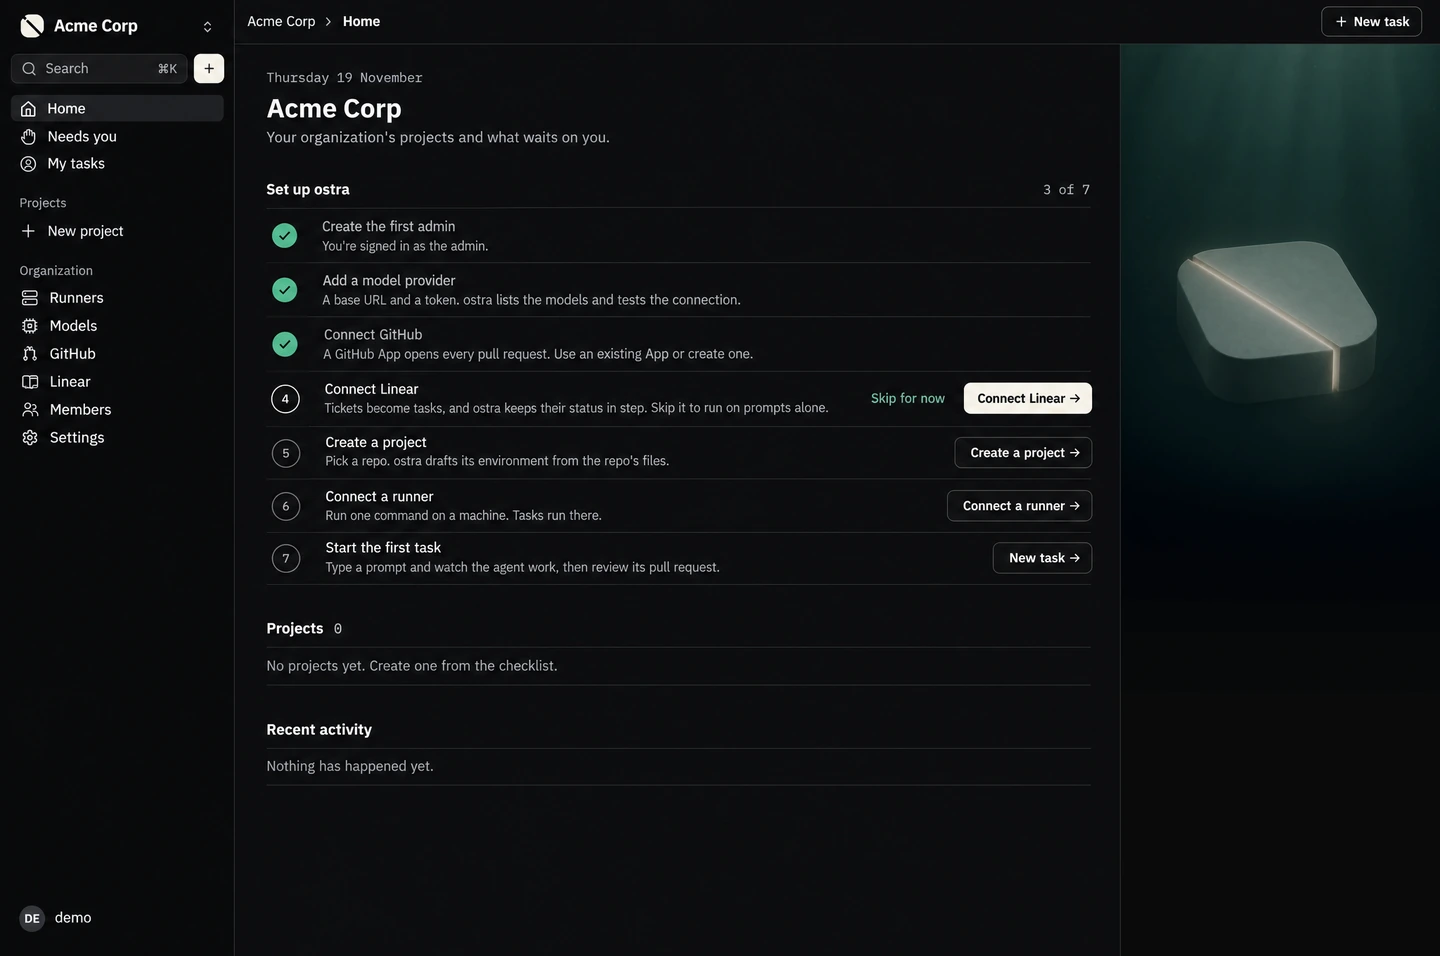
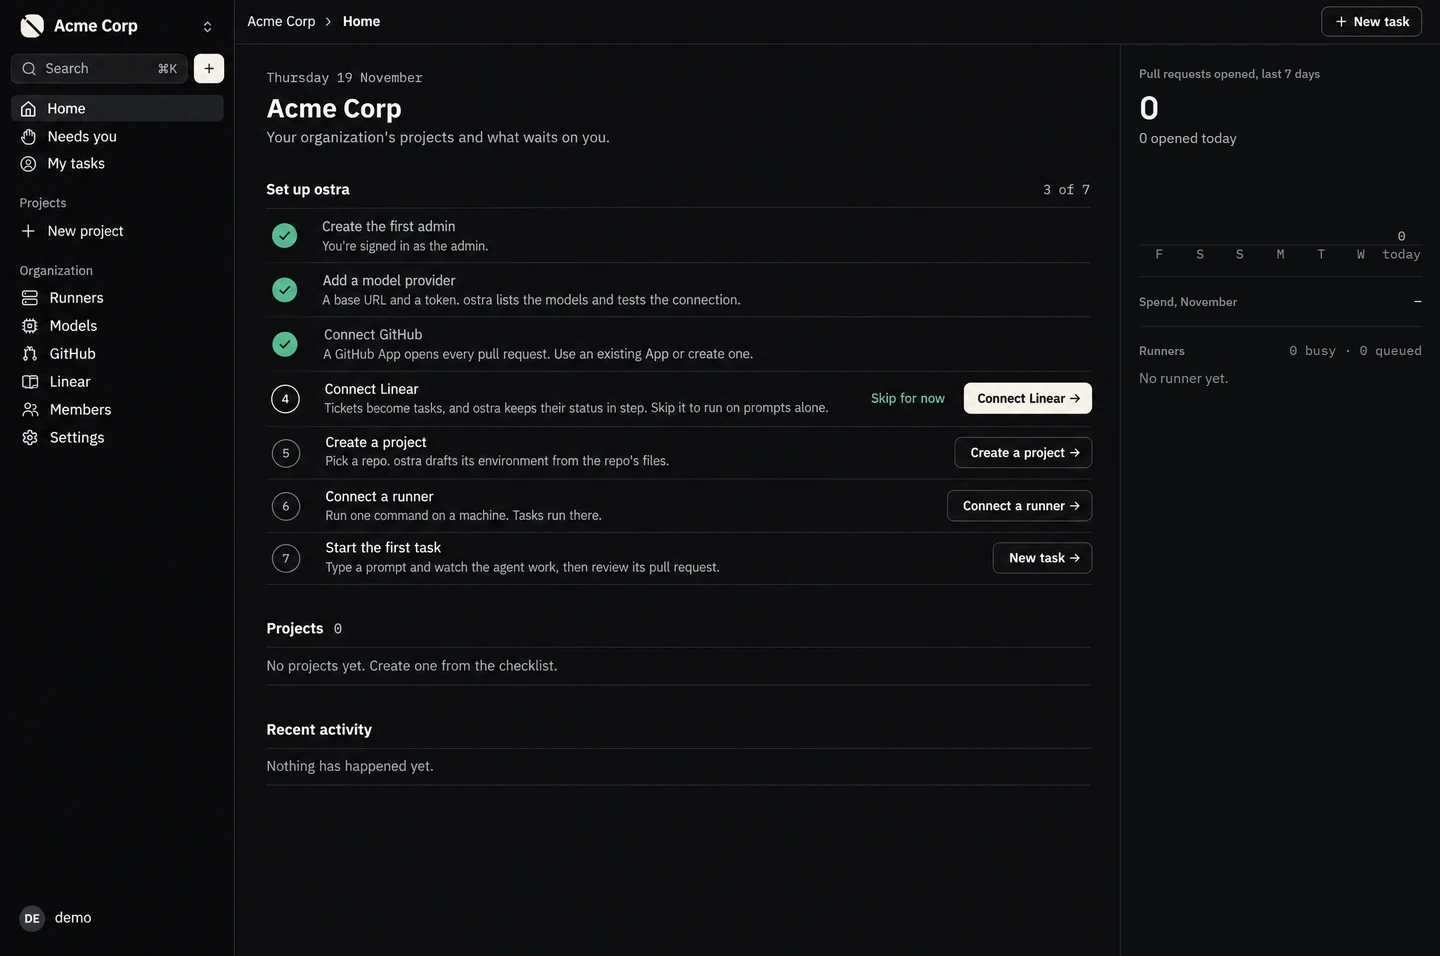
🎨 show Home's panel in the first-run targets
The maintainer, 2026-11-20: "on home this image on the right is ugly". The app dropped the Deep water column (a346d915); home-first-run and org-switcher-switched now show Home's right panel with its empty values, rendered from HomePanel's markup, tokens and fonts and composited in. Notes for the regraded m2 and m4 targets go in their READMEs.

Changed region(s): [[0.7812, 0.0303, 1.0, 0.4247]]

diff --git a/context/brand/app-targets/m2/home-first-run.md b/context/brand/app-targets/m2/home-first-run.md
@@ -4,7 +4,7 @@
 
 Home's first-run checklist (F-076) with the Linear step live (F-005), no longer "milestone 2" (screen 2 of `../../../specs/m2-tickets-in/spec.md` section 12). Everything else on Home is milestone 1's target, `../m1/home.md`: this file changes only its "First run" section and the right panel while the checklist shows.
 
-Prompt: `home-first-run.prompt.txt`. Made with the `ui-taste` skill, image first, on Higgsfield `gpt_image_2_6` (3:2, 2k, high), from the approved milestone 1 Home target (`../m1/home.png`, its 2048 original), the graphite Home concept (`../../app-concepts/html/home-graphite.png`) and the Hinge logo. One generation, with the right column asked for empty. The right column was then composited with the brand's "Deep water" illustration (`../../files/web/sign-in-illustration.webp`, B-017 in `../../assets.md`), scaled and darkened as "The illustration" below says. It's the maintainer's chosen illustration, not a dimmed mock of product UI.
+Prompt: `home-first-run.prompt.txt`. Made with the `ui-taste` skill, image first, on Higgsfield `gpt_image_2_6` (3:2, 2k, high), from the approved milestone 1 Home target (`../m1/home.png`, its 2048 original), the graphite Home concept (`../../app-concepts/html/home-graphite.png`) and the Hinge logo. One generation, with the right column asked for empty. The right column first held the brand's "Deep water" illustration; since 2026-11-20 it's Home's own right panel, empty, rendered from the panel's markup, tokens and fonts in Chromium and composited in ("The right panel" below).
 
 **Status:** a target, not yet approved by the maintainer (ticket 32). The picture is an image-model render: the copy and rules in this file win over the pixels, and the tokens below win over its colours.
 
@@ -23,9 +23,9 @@ Route: `/` (`app/(panel)/page.tsx` → `components/home/home-view.tsx`). The che
 | Sidebar | 232px, `--side`, right hairline | The shared sidebar; **Home** selected. A new organization has no projects, so Projects holds only `New project` |
 | Top bar | 44px, bottom hairline | Breadcrumbs `Acme Corp › Home`. Right: `+ New task` as an **outline** button (`.btn`) while the checklist shows; it becomes the primary once setup is done (`../m1/home.md`) |
 | Page | `1fr`, padding `28px 40px` | Heading, then **Set up ostra**, **Projects**, **Recent activity**, 26px apart |
-| Right column | 320px, left hairline, `--side` | Decorative: the brand illustration. No text, no data |
+| Right column | 320px, left hairline, `--bg` | Home's normal right panel (`../m1/home.md`): pull requests opened, spend, runners, with their empty values (since 2026-11-20; it was the Deep water picture) |
 
-At `< xl` the right column is hidden (the properties panel would stack under the page there, and a picture under a checklist says nothing). At phone width (F-075) a step's action wraps under its body, left-aligned with the title, and `Skip for now` sits after the button.
+At `< xl` the right panel stacks under the page, as on Home after setup. At phone width (F-075) a step's action wraps under its body, left-aligned with the title, and `Skip for now` sits after the button.
 
 ### Heading
 - Eyebrow, `.key` (Plex Mono 12px, `--faint`): `Thursday 19 November` (the member's locale date, `en-GB`).
@@ -74,17 +74,20 @@ The picture shows steps 1 to 3 done and Linear next.
 - **Recent activity**: one `--muted` row, `Nothing has happened yet.` (`home.activity.empty`, a key `../m1/home.md` adds; the section isn't built yet).
 - The **Needs you** section of `../m1/home.md` isn't shown while the checklist is: the checklist takes its place.
 
-### The illustration (decorative)
+### The right panel (no illustration since 2026-11-20)
 
-The right column replaces milestone 1's "the right panel is empty (not rendered)" during first run.
-- **The file:** the sign-in illustration, `../../files/web/sign-in-illustration-1200.webp` (B-017), served as `/sign-in-illustration-1200.webp`: `sign-in.md` copies it to `apps/web/public/`; whichever screen is built first copies it. No new asset.
-- **The column:** `PageFrame`'s `properties` slot, 320px, `position: relative; overflow: hidden; background: var(--side)`, `aria-hidden`, nothing focusable.
-- **The image:** `background: url(/sign-in-illustration-1200.webp) 50% 0 / 162.5% auto no-repeat` on a child layer with `opacity: 0.85`, over `--side`. That shows the stone whole, about 200px wide, centred, its middle about 275px below the top bar, with the light from above, and fades into `--side` at about 650px down (the asset's own bottom fade). The opacity keeps the stone dimmer than the primary button, so `Connect Linear →` stays the brightest thing on the page.
-- **No text** in the column, and no other image: Home already says what ostra is.
-- Hidden at `< xl` (`hidden xl:block`), so it costs a narrow screen nothing (a CSS background on a hidden element isn't fetched).
+**Changed 2026-11-20.** The maintainer, of the Deep water picture this column used to hold: "on home this image on the right is ugly". The app dropped it the same day (`a346d915`), and this target followed.
+
+During first run the right column is **Home's normal right panel**, `HomePanel` (`../m1/home.md`, "The right panel"), with the empty values a new organization has. Nothing in it is first-run-specific:
+- **Pull requests opened, last 7 days:** `0`, `0 opened today`, and the chart with no bars: the day letters, a `0` over `today`, and the `--line` baseline.
+- **Spend, November:** `–` (no priced usage yet).
+- **Runners:** `0 busy · 0 queued`, then `No runner yet.` in `--faint`.
+- The picture's panel was rendered from that markup with the panel's tokens and fonts, not drawn by the image model.
+
+The panel is `PageFrame`'s `properties` aside, as on every Home, and stacks under the page below `xl`. The next step's button stays the page's one primary: the panel holds no button.
 
 ### Loading and errors
-- **Loading:** the heading at once; the checklist shows 4 `Skeleton` rows (52px, `--surface` bars, no shimmer) until `setup.status` answers. The right column renders at once (it needs no data).
+- **Loading:** the heading at once; the checklist shows 4 `Skeleton` rows (52px, `--surface` bars, no shimmer) until `setup.status` answers. The right panel's numbers show `–` until `home.overview` answers.
 - **Error:** the checklist keeps its header and shows one row: `Couldn't load this. Retry`, with `Retry` as a teal link. The other sections still render.
 
 ## Components (shadcn/ui names)
@@ -97,7 +100,7 @@ The right column replaces milestone 1's "the right panel is empty (not rendered)
 | Skip for now, Connect Linear (skipped) | `Button variant="link"` in `--teal` |
 | Top bar New task | `Button variant="outline"` while the checklist shows |
 | Loading | `Skeleton` |
-| Illustration | a plain `div` with the CSS background above (no `next/image`: it's decorative and CSS-sized) |
+| Right panel | `HomePanel` (`components/home/home-panel.tsx`), unchanged |
 
 ## Tokens (from `../../app-concepts/html/graphite.css`)
 
@@ -124,7 +127,7 @@ The right column replaces milestone 1's "the right panel is empty (not rendered)
 3. **Progress** counts done and skipped steps: `3 of 7` in the picture.
 4. **Actions:** today every open step gets a button and the next gets the Shell fill. Unchanged, plus `Skip for now` on the Linear step and its five states above.
 5. **Top bar:** `New task` is always the Shell primary today (`buttonVariants()`); while the checklist shows it's the outline variant, so the next step's button is the page's one primary (`../m1/home.md` says so already; the code doesn't do it).
-6. **The right column** is new while the checklist shows: today `HomeView` passes no `properties`. Pass the decorative column only while `setup.status.next !== null`.
+6. **The right column** is Home's `HomePanel` while the checklist shows too (2026-11-20, `a346d915`): `HomeView` passes it whenever `setup.status` has answered. The decorative Deep water column it replaced is gone.
 7. **Sidebar:** a `Linear` row (Lucide `ticket`) after GitHub, as `connect-linear.md` says.
 8. **Messages:** `checklist.linear.body` changes to the copy above; new keys `checklist.linear.action` (`Connect Linear`), `checklist.linear.skip` (`Skip for now`), `checklist.linear.skipping` (`Skipping…`), `checklist.linear.skipped` (`Skipped. Tasks start from prompts until you connect it.`), `checklist.linear.pending`, `checklist.linear.continue` (`Continue`), `checklist.linear.failed`, `checklist.linear.authorizeAgain` (`Authorize again`); `checklist.linear.later` is removed.
 
@@ -136,6 +139,6 @@ The build uses the copy in this file, not the pixels.
 2. **The sidebar** shows `Needs you`, `My tasks`, `Members` and `Settings`, which milestone 1's shared shell doesn't have yet. Build the sidebar from `components/shell/sidebar.tsx`, plus the Linear row. The user at the bottom is the default first admin, `demo`, as a fresh install has.
 3. **The `Projects` count** is drawn as `0` in a slashed-zero mono: a faint mono `0` is right, its glyph comes from IBM Plex Mono.
 4. **The step titles** of done steps are drawn in nearly the same white as open ones: they're `--muted`.
-5. **The right column** is drawn 320px wide, wider than milestone 1's 300px properties panel. 320px is right for this decorative column.
-6. **The stone** is composited, not generated: build it from the asset and the CSS above, not by cropping the picture.
+5. **The right column** is 320px wide, the panel's measured width (`../m1/README.md`, "Scale").
+6. **The right panel** is rendered from the panel's markup, so it's crisper than the generated page beside it; its sizes are the panel's.
 7. No misspellings.

diff --git a/context/brand/app-targets/m4/org-switcher.md b/context/brand/app-targets/m4/org-switcher.md
@@ -8,7 +8,7 @@
 - **Prompts:** `org-switcher.prompt.txt`, `org-switcher-create.prompt.txt`, `org-switcher-switched.prompt.txt`. GPT Image 2.6 through Higgsfield (3:2, 2k, high). References: `app-targets/m1/home.png` (the approved page this one starts from, spec section 12) for the first two, the approved `m2/home-first-run` generation for the third, plus `app-concepts/html/home-graphite.png` and the Hinge logo `kit/logo/export/ostra-hinge-single-color-2048.png`. Generations:
   - `org-switcher`: 1, kept as made.
   - `org-switcher-create`: 2. Both squeezed the page behind the sheet into a narrower layout, which a sheet never does. The kept picture is the first generation's sheet pasted over `m1/home.png` darkened to 40% (the overlay), so the page behind is the approved Home, unchanged.
-  - `org-switcher-switched`: 1, with the right column asked for empty and then composited with the Deep water illustration exactly as `../m2/home-first-run.md` ("The illustration") says.
+  - `org-switcher-switched`: 1, with the right column asked for empty. It was composited with the Deep water illustration; since 2026-11-20 it holds Home's empty right panel instead, the same composite as `../m2/home-first-run.md` ("The right panel"), under the notice.
 - **Where:** the shared sidebar (`components/shell/sidebar.tsx`, its `OrganizationSwitcher`), on every panel page. The sheet and the notice belong to the shell too, not to a route.
 - **Features:** F-049 (several organizations). Spec section 12, screen 6; section 3, step 12; section 4, "Switching organizations". Ticket 24 (`organizations.mine`, `.switch`, `.create`, `.resolve`), ticket 33 (this screen). ADR 0053, ADR 0026.
 - **Status:** a proposed target, waiting on approval (ticket 31's `## Comments`). Ticket 33 builds its data and tests until then, not its UI.
@@ -89,7 +89,7 @@ It stays 8 seconds, longer while hovered or focused, and goes with Escape. One n
 | A link to a record of another of the member's organizations (ADR 0053: `organizations.resolve`, then `.switch`) | `The page you opened belongs to it.` then a teal `Back to Acme Corp`, which switches back and returns to the page the member came from |
 | The active organization went away (the member was removed from it, ADR 0053) and the panel fell back to another | `You're no longer a member of Acme Corp.` |
 
-The page behind is the new organization's: in the picture, Second's first-run Home (`../m2/home-first-run.md`), with only `Create the first admin` done, `Add a provider →` as the next step's primary button, and the Deep water illustration in the right column.
+The page behind is the new organization's: in the picture, Second's first-run Home (`../m2/home-first-run.md`), with only `Create the first admin` done, `Add a provider →` as the next step's primary button, and Home's right panel with its empty values in the right column.
 
 ## States and copy
 
@@ -126,7 +126,7 @@ The demo data in the pictures (fixtures, not real): `Acme Corp` (active, admin),
 | Token | Value | Used for |
 |---|---|---|
 | `--bg` | `#0D0E10` | the sheet |
-| `--side` | `#0A0B0C` | sidebar; the right column under the illustration |
+| `--side` | `#0A0B0C` | sidebar |
 | `--surface` | `#131416` | the menu, the notice, inputs |
 | `--raise` | `#17181B` | a menu row's hover and focus |
 | `--sel` | `#1A1B1E` | the active row, the trigger while open |
@@ -165,7 +165,7 @@ Build the copy and details in this file, not these:
 - **`org-switcher`: the `instance admin` badge** is drawn in mono; it's Plex Sans 11px.
 - **`org-switcher`: the sidebar's Organization rows** (`Runners`, `Models`, `GitHub`, `Linear`, `Members`, `Audit log`) are flavour. Build the shell's rows.
 - **`org-switcher-create`: the page behind** is `m1/home` pasted in at 40% brightness; the sidebar there is milestone 1's flavour (`Runner pools`, `Agent profiles`, `Insights`, …). The shell decides.
-- **`org-switcher-switched`:** the sidebar lists `Linear` with a board icon and no `Agent profiles`; the shell decides. The illustration is composited from the real asset, as `../m2/home-first-run.md` says, not drawn.
+- **`org-switcher-switched`:** the sidebar lists `Linear` with a board icon and no `Agent profiles`; the shell decides. The right panel is rendered from `HomePanel`'s markup, as `../m2/home-first-run.md` says, not drawn.
 - **The logo** in all three approximates the Hinge mark. Use `kit/logo/export/ostra-hinge-single-color.svg`, 20px.
 - The pictures have no loading, error, one-organization, link or narrow states: they're in the tables above.
 

diff --git a/context/brand/app-targets/m2/README.md b/context/brand/app-targets/m2/README.md
@@ -10,6 +10,8 @@ The design targets for milestone 2's screens (`context/specs/m2-tickets-in/spec.
 
 **Status: approved for the build on 2026-11-19 by the lead, on the maintainer's delegation, pending the maintainer's own review.** The maintainer asked for the work to go on through the night ("continue working on everything throughout the night, would be nice to wake up to the finished product"), so tickets 33 to 37 build to these targets now. If the maintainer rejects a screen, its target is remade and the screen rebuilt.
 
+**Moved to the panel's graphite theme, 2026-11-20:** `inbox-empty-illustration` is the regraded empty-state art the panel serves (chroma ×0.08 and an alpha mask that fades it into any page; B-017 in `../../assets.md`). `home-first-run`'s right column is Home's normal right panel with its empty values, not the Deep water picture: the maintainer, "on home this image on the right is ugly", and the app dropped it the same day (`home-first-run.md`, "The right panel").
+
 ## Screens
 
 | # (spec §12) | Screen | Target |
@@ -40,5 +42,5 @@ These hold too:
   - A project's items: Tasks, Inbox, Environment, Boards, Repos and Settings (the ticket template lives under Settings).
   - Organization: Runners, Models, GitHub, Linear and Storage.
   - Rows for later milestones (Agent profiles, Insights, Memory, Members, Audit log, Background work) appear in some pictures as flavour only.
-- **Decorative areas use the Deep water illustration** (`../../files/web/sign-in-illustration.webp`, B-017), never a mock of the product.
+- **Decorative areas use the Deep water illustration** (`../../files/web/sign-in-illustration.webp`, B-017), in its graphite grade, never a mock of the product. Home's first run no longer has one.
 - **Decisions the specs leave open.** Each `.md` lists them under its differences or open points (for example the member view of the Linear page, the "Skip for now" state of the Linear setup step, and the extra `linear.status` fields). The build takes the spec's recommended option, and records it in the ticket that builds the screen. **Settled on 2026-11-19** by the lead, on the delegation. Each ticket's `## Decided 2026-11-19 (ticket 40)` section holds the answer, under `context/specs/m2-tickets-in/issues/`. Where a target's open point and its ticket disagree, the ticket wins.

diff --git a/context/brand/app-targets/m4/README.md b/context/brand/app-targets/m4/README.md
@@ -13,6 +13,8 @@ These are the design targets for milestone 4's screens (`context/specs/m4-the-or
 
 **Added 2026-11-19 (ticket 62, F-137, ADR 0066):** `agent-profile-effort`, `task-effort` and `model-reasoning`, made the same way, one generation each, approved 2026-11-19 by the lead on the maintainer's delegation, pending the maintainer's review. Ticket 63 builds their UI. `app-targets/m1/models`, the one screen spec section 12 says grows with F-137 (a model's row shows whether it reasons and its levels), is drawn by `model-reasoning`'s `Models` tab, so it gets no other picture.
 
+**Moved to the panel's graphite theme, 2026-11-20:** `accept-invite`, `accept-invite-inbox`, `reset-password` and `reset-password-link` re-composited with the regraded Deep water picture (B-017 in `../../assets.md`) at their original placement; `search-empty-illustration` regraded with the empty-state art's grade and alpha mask; `org-switcher-switched`'s right column is Home's empty right panel, as `../m2/home-first-run.md` now says. No generation: the pictures were blue-green, the panel isn't.
+
 ## Screens
 
 | Screen | Target |
@@ -49,7 +51,7 @@ The earlier milestones' rules hold:
 - One sidebar, built from the shared shell, holding only what's shipped.
 - Real data only.
 - The brand's fonts and logo.
-- Decorative areas use the Deep water illustration.
+- Decorative areas use the Deep water illustration, in its graphite grade.
 - Check each screen by eye against its picture.
 
 The pages outside the panel (accepting an invitation, the password reset) use the sign-in frame and its scale.
